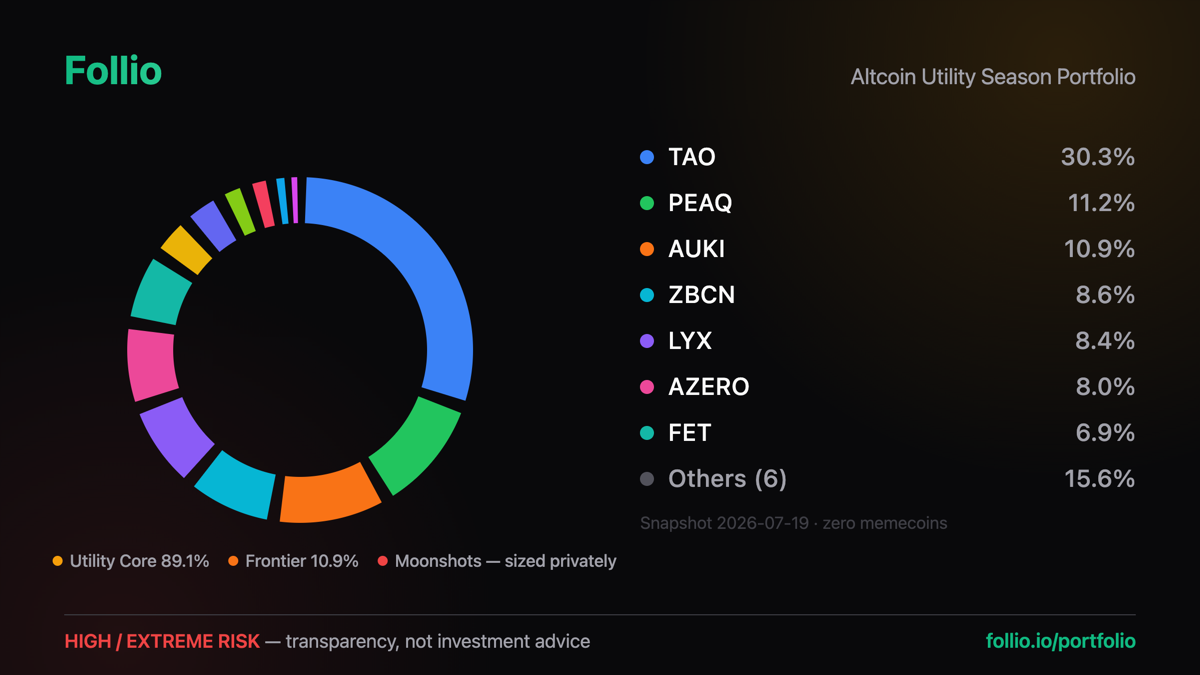
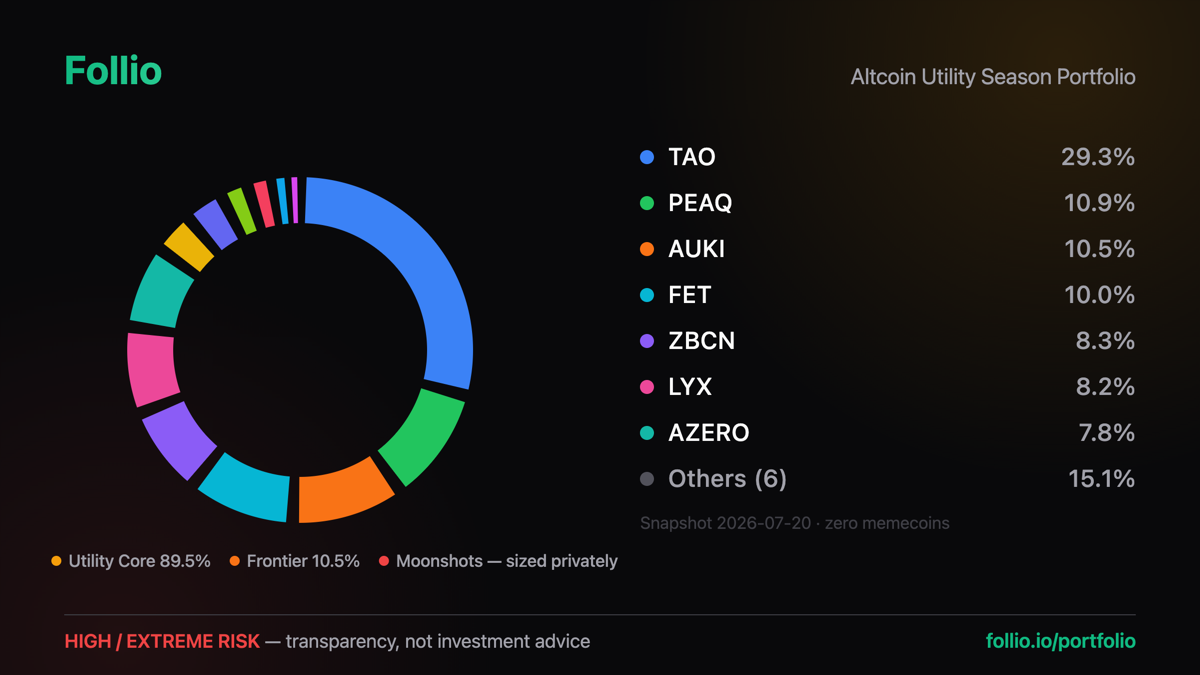
chore(portfolio): allocation update — FET added, now 10% of disclosed sleeve
Jakub added to the FET position. New raw weights model the buy
correctly: FET grows to 10.0% of the disclosed sleeve while every
other position dilutes proportionally; the whole set rebased to ~100
so the build-time sleeve invariant holds (public 92.9 + moonshots 7.2).
Disclosed shares now: TAO 29.3%, PEAQ 10.9%, AUKI 10.5%, FET 10.0%...
Snapshot date bumped to 2026-07-20; OG/Twitter card regenerated from
the live share renderer so link unfurls carry the new donut.

diff --git a/frontend/src/config/utility-portfolio.ts b/frontend/src/config/utility-portfolio.ts
@@ -79,7 +79,7 @@ export interface RiskTier {
   tokens: PortfolioToken[];
 }
 
-export const PORTFOLIO_SNAPSHOT_DATE = "2026-07-19";
+export const PORTFOLIO_SNAPSHOT_DATE = "2026-07-20";
 
 export const PORTFOLIO_TIERS: RiskTier[] = [
   {
@@ -94,7 +94,7 @@ export const PORTFOLIO_TIERS: RiskTier[] = [
         chart: { kind: "tradingview", symbol: "BINANCE:TAOUSDT" },
         theme: "AI",
         name: "Bittensor",
-        allocationPct: 28.1,
+        allocationPct: 27.2,
         description:
           "Decentralized machine-intelligence network — subnets compete to serve AI workloads and are rewarded in TAO.",
         research: {
@@ -121,7 +121,7 @@ export const PORTFOLIO_TIERS: RiskTier[] = [
         chart: { kind: "tradingview", symbol: "BYBIT:PEAQUSDT.P" },
         theme: "DePIN",
         name: "peaq",
-        allocationPct: 10.4,
+        allocationPct: 10.1,
         description:
           "Layer-1 built for DePIN and machine real-world assets — machines as first-class economic actors.",
         research: {
@@ -147,7 +147,7 @@ export const PORTFOLIO_TIERS: RiskTier[] = [
         chart: { kind: "tradingview", symbol: "BYBIT:ZBCNUSDT.P" },
         theme: "Payments",
         name: "Zebec Network",
-        allocationPct: 8.0,
+        allocationPct: 7.7,
         description:
           "Payments infrastructure — continuous streaming of payroll and payments on-chain.",
         research: {
@@ -174,7 +174,7 @@ export const PORTFOLIO_TIERS: RiskTier[] = [
         chart: { kind: "tradingview", symbol: "GATEIO:LYXUSDT" },
         theme: "Identity",
         name: "LUKSO",
-        allocationPct: 7.8,
+        allocationPct: 7.6,
         description:
           "Identity-centric layer-1 (Universal Profiles) targeting the creative and social economy.",
         research: {
@@ -197,7 +197,7 @@ export const PORTFOLIO_TIERS: RiskTier[] = [
         chart: { kind: "tradingview", symbol: "KUCOIN:AZEROUSDT" },
         theme: "Privacy",
         name: "Aleph Zero",
-        allocationPct: 7.4,
+        allocationPct: 7.2,
         description:
           "Privacy-enhancing layer-1 combining zero-knowledge proofs with multi-party computation, sub-second finality.",
         research: {
@@ -220,7 +220,7 @@ export const PORTFOLIO_TIERS: RiskTier[] = [
         chart: { kind: "tradingview", symbol: "BINANCE:FETUSDT" },
         theme: "AI",
         name: "Artificial Superintelligence Alliance",
-        allocationPct: 6.4,
+        allocationPct: 9.3,
         description:
           "Merged Fetch.ai / SingularityNET / Ocean stack — decentralized agentic-AI infrastructure and marketplaces.",
         research: {
@@ -246,7 +246,7 @@ export const PORTFOLIO_TIERS: RiskTier[] = [
         chart: { kind: "tradingview", symbol: "GATEIO:DMTRUSDT" },
         theme: "AgriTech",
         name: "Dimitra",
-        allocationPct: 3.7,
+        allocationPct: 3.6,
         description:
           "Agritech data platform bringing satellite, sensor and ML tooling to emerging-market farming.",
         research: {
@@ -269,7 +269,7 @@ export const PORTFOLIO_TIERS: RiskTier[] = [
         chart: { kind: "dexscreener", chain: "solana", pair: "3D854kknnQhu9xVaRNV154oZ9oN2WF3tXsq3LDu7fFMn" },
         theme: "Payments",
         name: "AviciMoney",
-        allocationPct: 3.5,
+        allocationPct: 3.4,
         chain: "Solana",
         description:
           "Crypto-neobank front end on Solana — self-custodial smart wallets, Visa cards, virtual IBANs, business accounts and stablecoin payroll.",
@@ -297,7 +297,7 @@ export const PORTFOLIO_TIERS: RiskTier[] = [
         chart: { kind: "tradingview", symbol: "GATEIO:BOSONUSDT" },
         theme: "Commerce",
         name: "Boson Protocol",
-        allocationPct: 2.5,
+        allocationPct: 2.4,
         description:
           "Decentralized commerce — physical goods tokenized as redeemable on-chain vouchers.",
         research: {
@@ -320,7 +320,7 @@ export const PORTFOLIO_TIERS: RiskTier[] = [
         chart: { kind: "tradingview", symbol: "GATEIO:ORAIUSDT" },
         theme: "AI",
         name: "Oraichain",
-        allocationPct: 2.3,
+        allocationPct: 2.2,
         description:
           "AI oracle layer and AI-centric chain — verifiable AI computation for smart contracts.",
         research: {
@@ -401,7 +401,7 @@ export const PORTFOLIO_TIERS: RiskTier[] = [
         chart: { kind: "tradingview", symbol: "MEXC:AUKIUSDT" },
         theme: "Spatial computing",
         name: "Auki Labs (posemesh)",
-        allocationPct: 10.1,
+        allocationPct: 9.8,
         description:
           "Decentralized machine-perception network — shared spatial computing (the posemesh) for AR and robotics positioning.",
         research: {
@@ -438,7 +438,7 @@ export const PORTFOLIO_TIERS: RiskTier[] = [
         chart: { kind: "dexscreener", chain: "solana", pair: "AUkyLNWsa4oYbeLtXcm59mYUPMRgkRcysc9P9yhPfzv" },
         theme: "Payments",
         name: "NodeRails",
-        allocationPct: 5.3,
+        allocationPct: 5.1,
         chain: "Solana",
         description:
           "Multi-chain crypto payments gateway — hosted checkouts, payment links, subscriptions and dispute protection across EVM, Solana and Sui.",
@@ -463,7 +463,7 @@ export const PORTFOLIO_TIERS: RiskTier[] = [
         chart: { kind: "dexscreener", chain: "solana", pair: "D5D8VRNJz56bd6RN72F4Pk3d91UawMLhGXXXgJkGp1dM" },
         theme: "AI",
         name: "OCCA AI",
-        allocationPct: 1.6,
+        allocationPct: 1.5,
         chain: "Solana",
         description:
           "Operating layer for agent-run companies — on-chain identity, treasury and a verifiable trace of every AI agent's actions.",